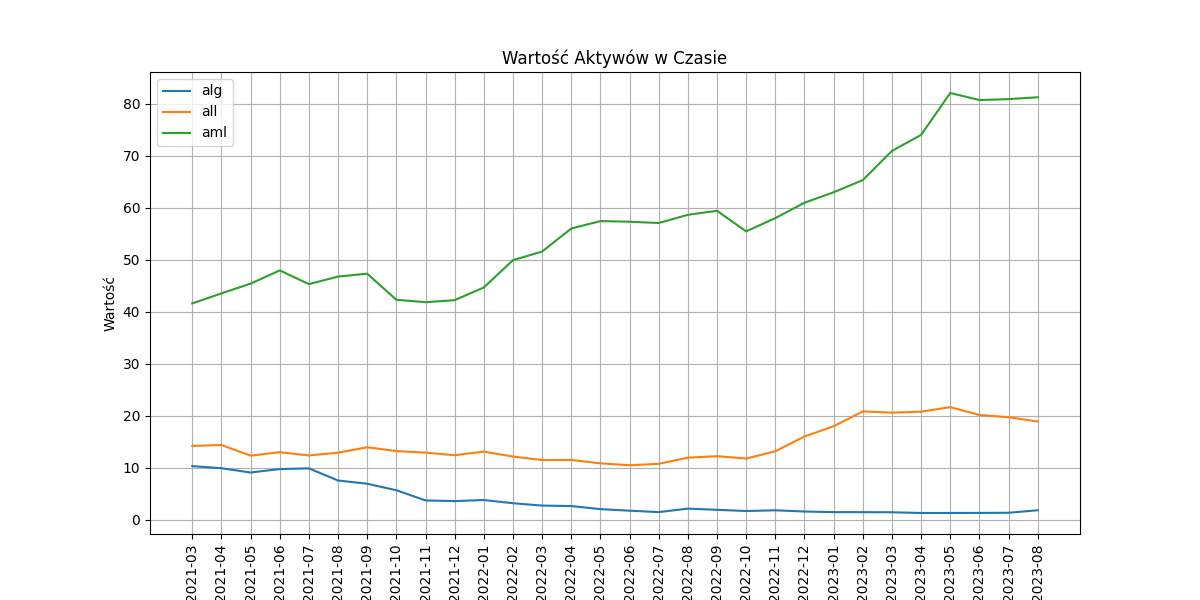
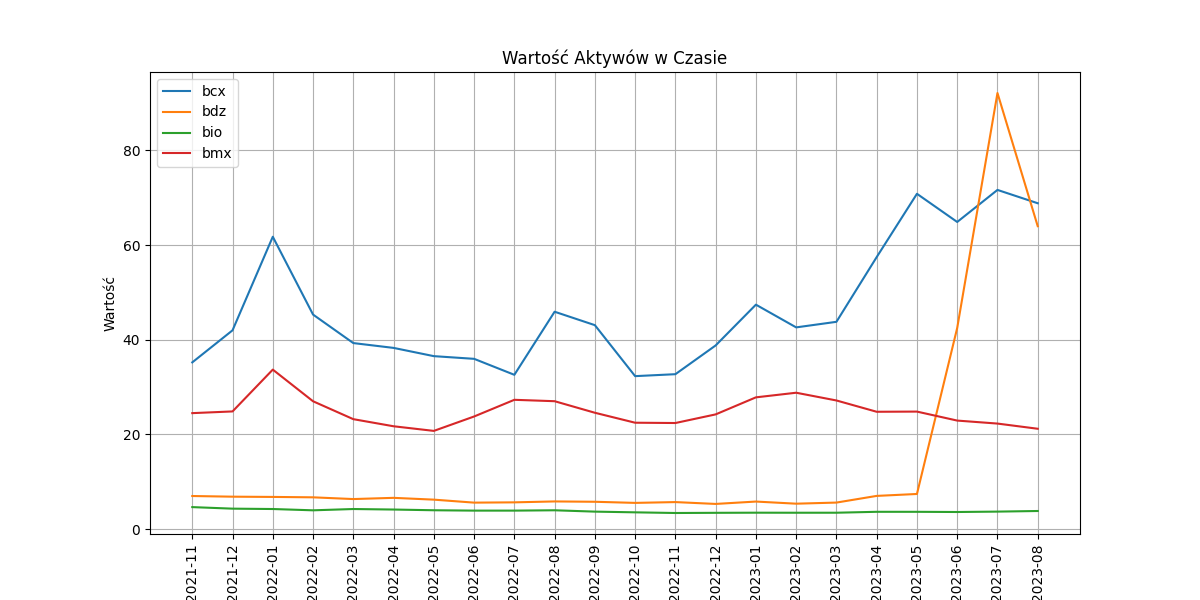
chore(app): finalize build and prepare to deploy

diff --git a/templates/result.html b/templates/result.html
@@ -20,6 +20,8 @@
 
             <h3>Indicators:</h3>
             <p>{{ parameters|linebreaks }}</p>
+            <p>max drawdown = {{ max_drawdown }}%</p>
+
         </div>
 
         <div class="charts">

diff --git a/portfolio/views.py b/portfolio/views.py
@@ -23,11 +23,15 @@ def home(request):
             asset = Asset.objects.get(name=asset_name)
             PortfolioAsset.objects.create(portfolio=portfolio, asset=asset, weight=mark_output[asset_name])
 
-        # Generowanie wykresów i zapisywanie ich do plików
-        DataFunctions.generate_plots(selected_assets, mark_output)
+        # Generating plots, saving to files, and calculate max drawdown
+        drawdown= DataFunctions.maximum_drawdown(DataFunctions.generate_plots(selected_assets, mark_output))
+
+
         response_data = {'message': 'Portfel został utworzony pomyślnie!'}
         request.session['mark_output'] = mark_output
         request.session['selected_assets'] = selected_assets
+        request.session['max_drawdown'] = drawdown
+
         return Response(response_data, status=status.HTTP_200_OK)
 
     # Pobieranie wszystkich aktywów z bazy danych
@@ -39,6 +43,7 @@ def home(request):
 def result(request):
     mark_output = request.session.get('mark_output')
     selected_assets = request.session.get('selected_assets')
+    max_drawdown = request.session.get('max_drawdown')
     weights, parameters = [], []
     for asset in selected_assets:
         weight_str = f"Weight for {asset} asset is {mark_output[asset]}"
@@ -51,7 +56,7 @@ def result(request):
 
     return render(request, 'result.html', 
                   {'message': 'portfel utworzony pomyślnie!', 'parameters': parameters, 
-                   'weights': weights})
+                   'weights': weights, 'max_drawdown' : max_drawdown})
 
 
         

diff --git a/portfolio/data_functions.py b/portfolio/data_functions.py
@@ -10,6 +10,7 @@ import matplotlib
 matplotlib.use('agg')
 from io import BytesIO
 import base64
+import builtins
 
 
 PROJECT_DIR = os.path.dirname(os.path.dirname(os.path.abspath(__file__)))
@@ -238,4 +239,24 @@ class DataFunctions:
         plot3_path = os.path.join(PROJECT_DIR, 'static', 'plot3.png')
         plt.savefig(plot3_path, format='png')
         
+        portfolio_values = portfolio_values.tolist()
+        print(portfolio_values)
+        return portfolio_values
+    
+    
+    @classmethod
+    def maximum_drawdown(cls, profit_data):
+
+        max_drawdown = 0.0
+        peak = profit_data[0]  # First/ start point
+
+        for value in profit_data:
+
+            if value > peak:
+                peak = value
+            else:
+                drawdown = (peak - value) / peak
+                max_drawdown = builtins.max(max_drawdown, drawdown)
+
+        return round(max_drawdown*100)
 
